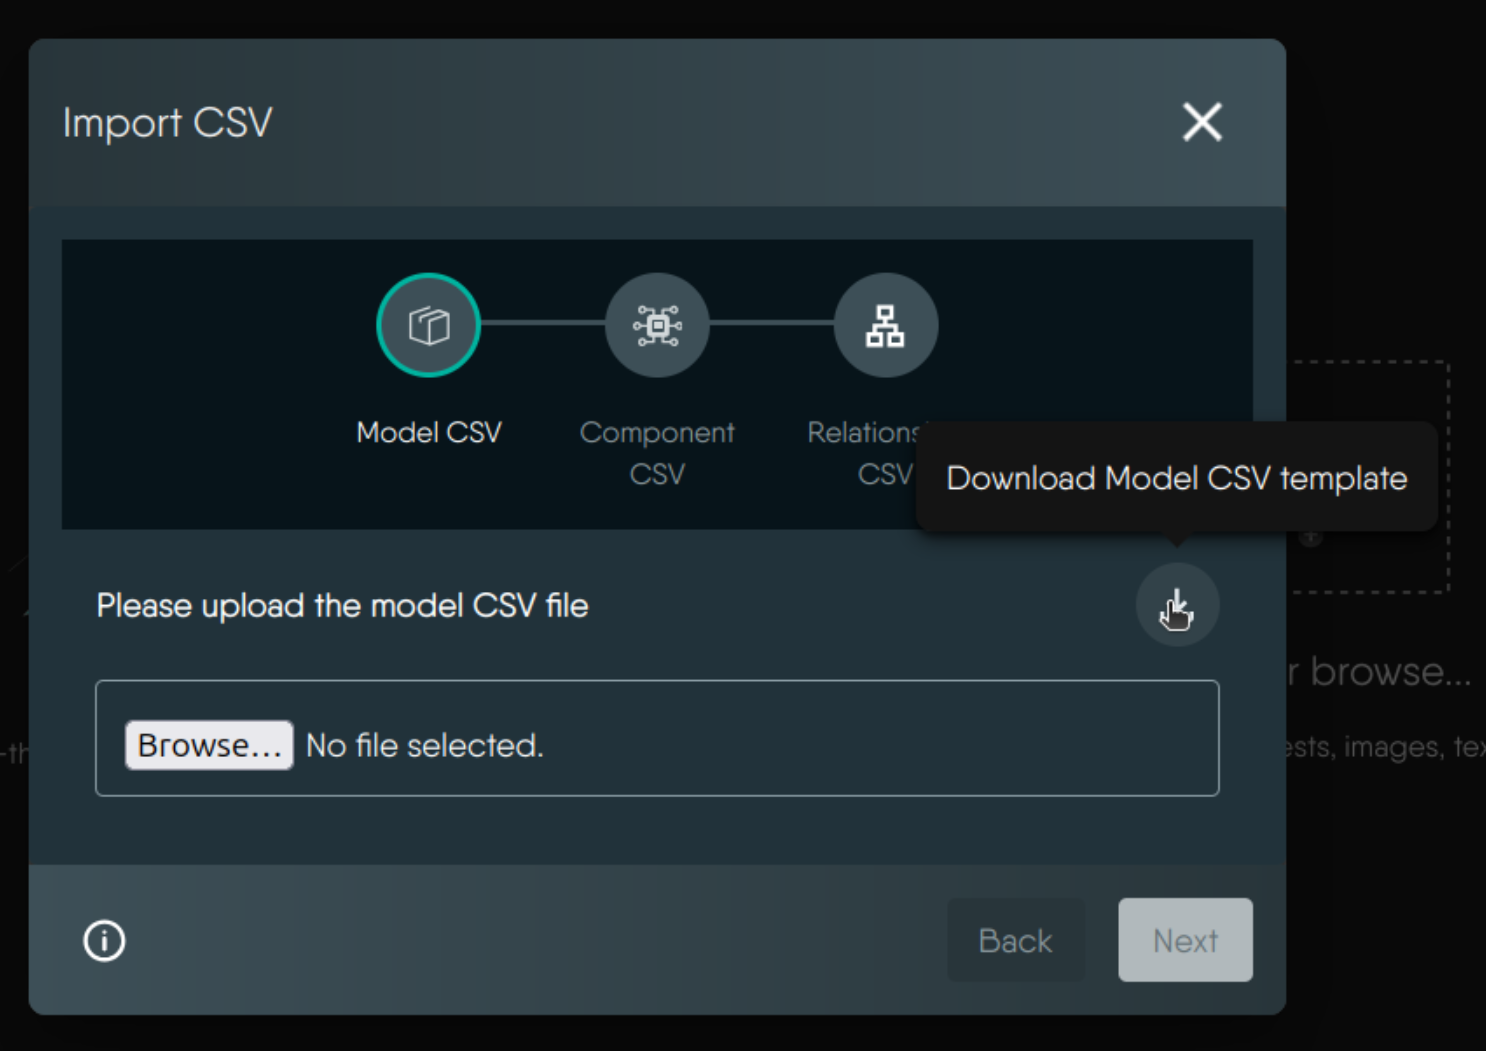
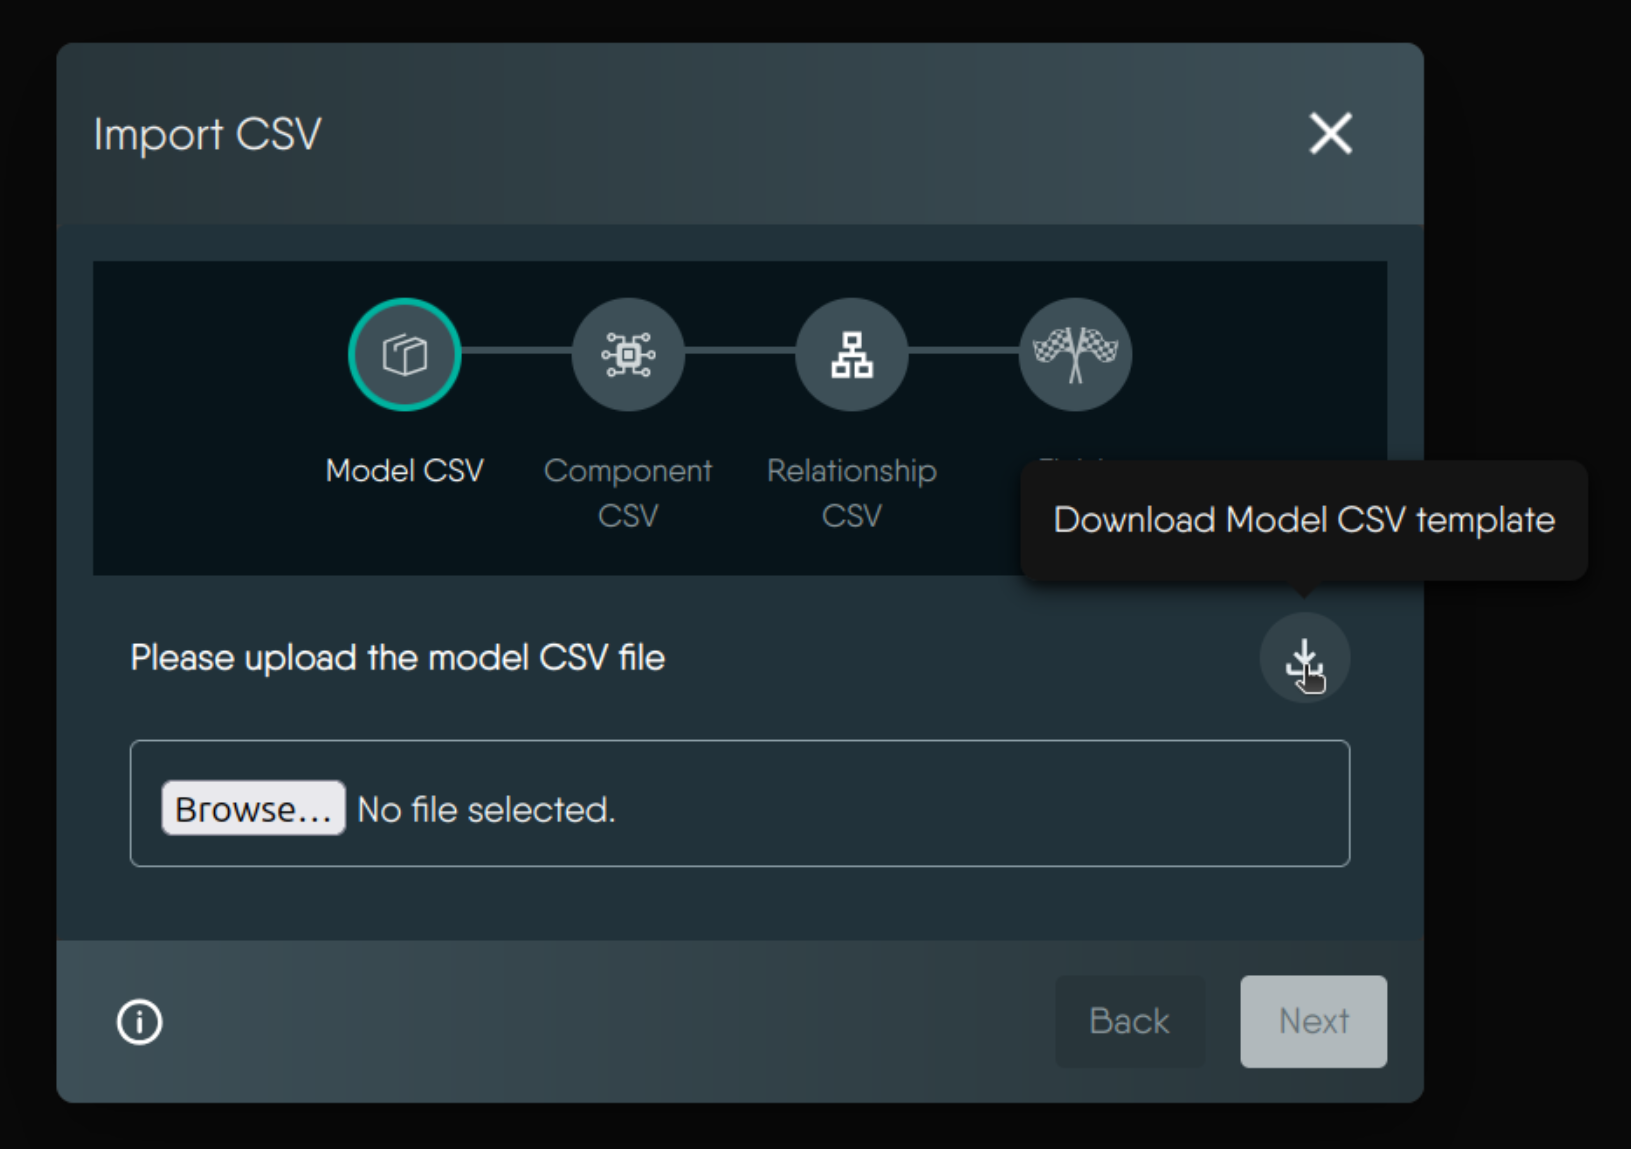
add some images

diff --git a/content/en/kanvas/designer/create-model/index.md b/content/en/kanvas/designer/create-model/index.md
@@ -18,13 +18,13 @@ Meshery Components are the building blocks of a model. Each component represents
 
 ## Creating your first Meshery Model
 
-The following instructions are a no-fluff guide to creating your own Meshery Models quickly. For more detailed information, see the [Contributing to Models](/project/contributing/contributing-models) documentation.
+The following instructions are a no-fluff guide to creating your own Meshery Models quickly.
 
-The URL Import feature allows you to generate models in Meshery by providing URLs to source repositories or package registries. Here's how to use it:
+The create model wizard allows you to generate models in Meshery by providing URLs to source repositories or package registries. Here's how to use it:
 
 #### 1. Access the Model Generation Interface
 
-Navigate to Kanvas [Designer](https://playground.meshery.io/extension/meshmap). From bottom dock click on shape or component tab. Click the "Create Model" icon to begin creating a new model.
+Navigate to Kanvas [Designer](https://playground.meshery.io/extension/meshmap) mode. From bottom dock click on shape or component tab. Click the **Create Model** icon to begin creating a new model.
 
 <img src="./create-model.png" alt="kanvas model generate" width="600" style="margin-bottom: 25px;">
 
@@ -39,7 +39,7 @@ Enter the required information for your model:
 
 #### 3. Set Model Categorization
 
-Choose appropriate category and subcategory for your model from the dropdown menus. If your model doesn't fit existing categories, select "Uncategorized". This helps organize models in the registry and makes them easier to find.
+Choose appropriate category and subcategory for your model from the dropdown menus. If your model doesn't fit existing categories, select **Uncategorized**. This helps organize models in the registry and makes them easier to find.
 
 <img src="./model-category.png" alt="model category step" width="600" style="margin-bottom: 25px;">
 
@@ -82,17 +82,25 @@ In this step you can specify if the model is for visual annotation only
 
 #### 7. Finalize and Generate
 
-Now in this step you can verify all the model details you provided. If everything looks good, you can click the "Generate" button and it will start generating your model. During generation, Meshery will process the source information and create the appropriate model components. If you want to make any changes before generation, you can go back to the previous steps using the navigation buttons and edit the details as needed.
+Now in this step you can verify all the model details you provided. If everything looks good, you can click the **Generate** button and it will start generating your model. During generation, Meshery will process the source information and create the appropriate model components. If you want to make any changes before generation, you can go back to the previous steps using the navigation buttons and edit the details as needed.
 
 <img src="./model-fianlize.png" alt="model finalize step" width="600" style="margin-bottom: 25px;">
 
+#### 8. Model Generation Status
+
+Once the model generation is complete, you will see a success message indicating that your model has been successfully generated. You can also view all of the components and relationships that were created during the generation process.
+
+<img src="./finish-step.png" alt="model finalize step" width="600" style="margin-bottom: 25px;">
+
+#### 9. Accessing the Generated Model
+
+After the model generation is complete, you can access the generated model in the Kanvas Designer from the shape or component picker. The generated model will be available within given category and subcategory you selected earlier or you can search for it using the search bar. You can drag and drop the model onto the kanvas to start using it in your designs.
+
+<img src="./generated-model.png" alt="generated model status" width="600" style="margin-bottom: 25px;">
+
 ## Importing a Model
 
-You can import a model from a URL or a local file. To import a model, click on the "Import Model" button in the Kanvas Designer. You can then provide the URL or select a local file to import.
-
-Once the model is imported, you can view and edit it in the Kanvas Designer. You can also export the model to a local file or a URL.
-
-You can access import models near creating models in the Kanvas Designer. Click on the "Import Model" button to begin.
+There are several ways to import a model into Meshery. You can import a model from a file, a URL, or CSV files. To import a model, click on the **Import Model** button in the Kanvas Designer. You can find the import models button located next to the create model icon button in the bottom dock of the Kanvas Designer interface.
 
 ### Importing a Model from a File:
 
@@ -124,8 +132,9 @@ Upload separate CSV files for model definitions, components, and their relations
 
 The CSV Import feature allows you to generate models in Meshery by providing template CSV files that define your model structure, components, and relationships. Here's a comprehensive guide on how to use this feature:
 
-1. Select the "Import from CSV" option.
-2. Prepare your CSV files: You'll need three essential CSV files to define your model. You can download the template CSV files from the download icon in the top right corner of model. Each file serves a specific purpose:
+1. Select the **Import from CSV** option.
+   <img src="./csv-import.png" alt="select csv" width="600" style="margin-bottom: 25px;">
+2. **Prepare your CSV files:** You'll need three essential CSV files to define your model. You can download the template CSV files from the download icon in the top right corner of model. Each file serves a specific purpose:
 
    - **Model CSV:** Defines your model's core metadata, including name, version, and general properties.
    - **Components CSV:** Describes the individual components that make up your model.
@@ -137,13 +146,18 @@ The CSV Import feature allows you to generate models in Meshery by providing tem
 
 3. Upload Models, Components, and Relationships CSV:
 
-   - Click the "Choose File" button to select your respective CSV files from your local machine.
+   - Click the **Choose File** button to select your respective CSV files from your local machine.
    - Ensure that you upload the Model CSV first, followed by the Components CSV, and finally the Relationships CSV.
 
     <img src="./relationship-csv.png" alt="relationship model csv step" width="600" style="margin-bottom: 25px;">
 
-4. Click the "Import" button to generate your model based on the provided CSV files.
-5. The model will be appear in either shape or component picker.
+4. Click the **Generate** button to generate your model based on the provided CSV files.
+
+5. Once the model generation is complete, you will see a success message indicating that your model has been successfully generated. You can also view all of the components and relationships that were created during the generation process.
+
+   <img src="./final-csv-step.png" alt="model finalize step" width="600" style="margin-bottom: 25px;">
+
+6. After the model generation is complete, you can access the generated model in the Kanvas Designer from the shape or component picker. The generated model will be available within the given category and subcategory you selected earlier or you can search for it using the search bar. You can drag and drop the model onto the kanvas to start using it in your designs.
 
 **Congratulations! You have successfully created a new model.**
 
